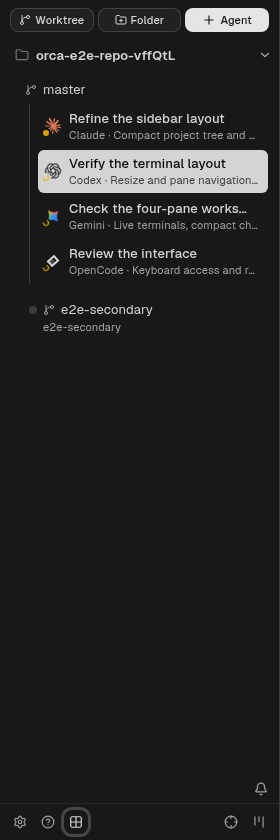
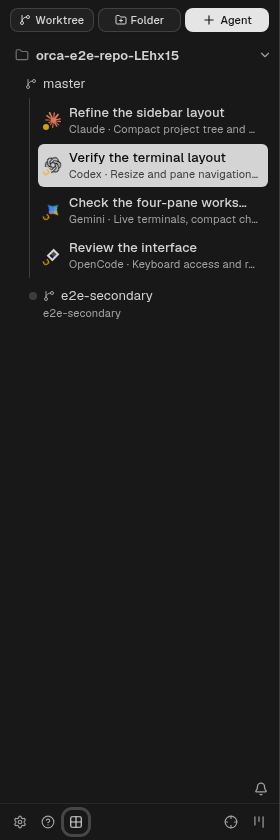
feat(ui): unify workspace canvas and inset terminal panes

Changed region(s): [[0.0857, 0.0929, 0.9714, 0.4024], [0.4857, 0.0619, 0.6286, 0.0929]]

diff --git a/tests/e2e/deck-chrome.spec.ts b/tests/e2e/deck-chrome.spec.ts
@@ -44,6 +44,22 @@ test('Deck rail navigates real split panes and keeps tools reachable', async ({
     })
   })
   await ensureTerminalVisible(page)
+  const canvas = page.locator('.deck-workspace-shell')
+  const canvasColor = await canvas.evaluate((element) => getComputedStyle(element).backgroundColor)
+  await expect(page.locator('.deck-sidebar')).toHaveCSS('background-color', canvasColor)
+  await expect(page.locator('[data-tab-group-strip-id]').first()).toHaveCSS(
+    'background-color',
+    canvasColor
+  )
+  const projectBranchSpacing = await page.locator('.deck-sidebar').evaluate((sidebar) => {
+    const header = sidebar.querySelector('[data-repo-header-id]')!.getBoundingClientRect()
+    const branch = sidebar
+      .querySelector('[data-worktree-card-hover-trigger]')!
+      .getBoundingClientRect()
+    return branch.top - header.bottom
+  })
+  expect(projectBranchSpacing).toBeGreaterThanOrEqual(0)
+  expect(projectBranchSpacing).toBeLessThanOrEqual(6)
   await page.evaluate(() => {
     const state = window.__store!.getState()
     for (const title of ['Review changes', 'Build and verify']) {
@@ -73,7 +89,11 @@ test('Deck rail navigates real split panes and keeps tools reachable', async ({
     page.locator('[data-testid="sortable-tab"]').filter({ hasText: 'Workspace · 4 panes' })
   ).toHaveCount(1)
   await expect(page.locator('.pane[data-active-pane]:visible')).toHaveCount(1)
-  await expect(page.locator('.pane-title-bar:visible').first()).toHaveCSS(
+  await expect(page.locator('.pane[data-active-pane]:visible')).toHaveCSS(
+    'background-color',
+    'rgb(12, 12, 12)'
+  )
+  await expect(page.locator('.pane-title-bar[data-active-pane]:visible')).toHaveCSS(
     'background-color',
     'rgb(12, 12, 12)'
   )
@@ -195,6 +215,27 @@ test('Deck rail navigates real split panes and keeps tools reachable', async ({
   expect(borderColors.find((pane) => pane.active)?.color).not.toBe(
     borderColors.find((pane) => !pane.active)?.color
   )
+  await expect(page.locator('.deck-terminal-surface:visible')).toHaveCSS(
+    'background-color',
+    canvasColor
+  )
+  await expect(page.locator('.pane-title-bar:visible').first()).toHaveCSS('height', '32px')
+  await expect
+    .poll(() =>
+      page.locator('.pane-title-bar:visible').evaluateAll((headers) =>
+        headers.every((header) => {
+          const pane = document.querySelector(`.deck-terminal-surface .pane[data-active-pane]`)
+          const box = header.getBoundingClientRect()
+          return (
+            !header.hasAttribute('data-active-pane') ||
+            (pane &&
+              Math.abs(box.left - pane.getBoundingClientRect().left) < 1 &&
+              Math.abs(box.top - pane.getBoundingClientRect().top) < 1)
+          )
+        })
+      )
+    )
+    .toBe(true)
 
   await expect(page.getByRole('button', { name: 'New agent', exact: true })).toBeEnabled()
   for (const button of await page.getByRole('button', { name: 'Got it', exact: true }).all()) {
@@ -225,14 +266,19 @@ test('Deck rail navigates real split panes and keeps tools reachable', async ({
         elements.every((element) => {
           const box = element.getBoundingClientRect()
           const terminal = element.querySelector('.xterm-container')?.getBoundingClientRect()
+          const screen = element.querySelector('.xterm-screen')?.getBoundingClientRect()
           return (
             box.width > 100 &&
             box.height > 100 &&
             box.right <= innerWidth + 1 &&
             box.bottom <= innerHeight + 1 &&
             terminal &&
-            terminal.top >= box.top + 23 &&
-            terminal.bottom <= box.bottom + 1
+            terminal.top >= box.top + 31 &&
+            terminal.bottom <= box.bottom + 1 &&
+            screen &&
+            screen.top >= terminal.top &&
+            screen.right <= box.right + 1 &&
+            screen.bottom <= box.bottom + 1
           )
         })
       )

diff --git a/src/renderer/src/assets/deck-chrome.css b/src/renderer/src/assets/deck-chrome.css
@@ -1,4 +1,35 @@
 /* Deck's compact rail, using Orca's theme roles and existing workspace actions. */
+.deck-workspace-shell {
+  --workspace-canvas: var(--worktree-sidebar);
+  background: var(--workspace-canvas);
+  --bg-titlebar: var(--workspace-canvas);
+  --sidebar: var(--worktree-sidebar);
+}
+
+.deck-workspace-shell .titlebar-left {
+  box-shadow: none;
+}
+
+.deck-workspace-shell [data-tab-group-strip-id],
+.deck-workspace-shell [data-terminal-focus-release-surface] {
+  background: var(--workspace-canvas);
+  border-bottom-color: transparent;
+}
+
+.deck-terminal-surface,
+.deck-terminal-surface ~ .pane-title-overlay-layer {
+  inset: 6px;
+  --orca-pane-title-height: 32px;
+}
+
+.deck-terminal-surface {
+  background: var(--workspace-canvas) !important;
+}
+
+.deck-terminal-surface .pane-divider:not(:hover):not(.is-dragging)::after {
+  background: transparent;
+}
+
 .deck-sidebar.deck-sidebar {
   border-right: 1px solid var(--border);
 }
@@ -33,8 +64,8 @@
 
 .deck-sidebar.deck-sidebar [data-worktree-card-surface] {
   border-radius: var(--radius-sm);
-  padding-top: 4px;
-  padding-bottom: 4px;
+  padding-top: 2px;
+  padding-bottom: 2px;
 }
 
 .deck-sidebar.deck-sidebar [data-worktree-card-surface]:has([data-deck-agent]) {
@@ -172,6 +203,7 @@
 
 /* Inset outlines leave the pane manager's measured terminal geometry untouched. */
 [data-terminal-tab-id] .pane {
+  background: var(--orca-pane-title-bg);
   border-radius: var(--radius-sm);
   overflow: hidden;
 }
@@ -192,10 +224,10 @@
 
 .pane-title-overlay-layer .pane-title-bar {
   font-family: var(--font-sans);
-  font-size: 11px;
+  font-size: 12px;
   color: var(--orca-pane-title-fg);
-  background: var(--orca-pane-title-bg, var(--background));
-  border: 0;
+  background: color-mix(in srgb, var(--orca-pane-title-fg) 8%, var(--orca-pane-title-bg));
+  border: 1px solid var(--border);
   border-radius: var(--radius-sm) var(--radius-sm) 0 0;
 }
 
@@ -217,9 +249,12 @@
 
 .pane-title-overlay-layer .pane-title-bar[data-chromeless] {
   pointer-events: auto;
-  background: var(--orca-pane-title-bg, var(--background));
   padding-inline: 8px;
-  border-bottom: 0;
+}
+
+.pane-title-overlay-layer .pane-title-bar[data-active-pane] {
+  background: var(--orca-pane-title-bg);
+  border-color: transparent;
 }
 
 .pane-title-overlay-layer .pane-title-bar[data-chromeless] .pane-title-split-trigger::before,

diff --git a/src/renderer/src/assets/deck-tabs.css b/src/renderer/src/assets/deck-tabs.css
@@ -6,14 +6,14 @@
   padding-inline: 8px;
   border: 0;
   border-radius: var(--radius-sm);
-  background: color-mix(in srgb, var(--foreground) 3%, var(--card));
+  background: transparent;
   transition:
     background-color 150ms ease-out,
     color 150ms ease-out;
 }
 
 .terminal-tab-strip > [data-tab-strip-slot] {
-  background: var(--card);
+  background: transparent;
 }
 
 .terminal-tab-strip > [data-tab-strip-slot]:not(:last-child) {
@@ -29,12 +29,12 @@
 }
 
 .terminal-tab-strip .workspace-tab:hover {
-  background: color-mix(in srgb, var(--foreground) 6%, var(--card));
+  background: color-mix(in srgb, var(--foreground) 6%, transparent);
 }
 
 .terminal-tab-strip .workspace-tab.workspace-tab-active {
-  background: color-mix(in srgb, var(--foreground) 10%, var(--card));
-  box-shadow: inset 0 0 0 1px color-mix(in srgb, var(--foreground) 20%, transparent);
+  background: color-mix(in srgb, var(--foreground) 6%, transparent);
+  box-shadow: none;
   font-weight: 500;
 }
 

diff --git a/src/renderer/src/assets/main.css b/src/renderer/src/assets/main.css
@@ -44,6 +44,7 @@
 
 @theme inline {
   --color-background: var(--background);
+  --color-workspace-canvas: var(--workspace-canvas);
   --color-foreground: var(--foreground);
   --color-card: var(--card);
   --color-card-foreground: var(--card-foreground);
@@ -206,6 +207,7 @@
   --chart-4: var(--color-blue-700);
   --chart-5: var(--color-blue-800);
   --worktree-sidebar: #f5f5f5;
+  --workspace-canvas: var(--worktree-sidebar);
   --worktree-sidebar-foreground: #0a0a0a;
   --worktree-sidebar-accent: #eaeaea;
   --worktree-sidebar-accent-foreground: #171717;
@@ -322,6 +324,7 @@
   --chart-5: var(--color-blue-800);
   /* Keep the rail slightly lighter than the terminal canvas. */
   --worktree-sidebar: #181818;
+  --workspace-canvas: var(--worktree-sidebar);
   --worktree-sidebar-foreground: #d4d4d4;
   --worktree-sidebar-accent: #353535;
   --worktree-sidebar-accent-foreground: #fafafa;

diff --git a/src/renderer/src/app-shell/AppWorkspaceShell.tsx b/src/renderer/src/app-shell/AppWorkspaceShell.tsx
@@ -112,7 +112,10 @@ export function AppWorkspaceShell(props: {
         'The app is still running. Retry the shell or use the menu to report the crash details.'
       )}
     >
-      <div className="flex flex-row flex-1 min-h-0 overflow-hidden">
+      <div
+        className="deck-workspace-shell flex flex-row flex-1 min-h-0 overflow-hidden"
+        style={layout.leftSidebarStyle}
+      >
         {/* Why: keep the non-workspace titlebar inside this left+center wrapper so it doesn't span over the right-sidebar column. */}
         <div className="flex flex-col flex-1 min-w-0 min-h-0">
           {/* Why: workspace view drops the full-width titlebar so tab groups extend to the top; settings/landing/tasks keep it. */}

diff --git a/src/renderer/src/components/terminal-pane/use-terminal-pane-projection.ts b/src/renderer/src/components/terminal-pane/use-terminal-pane-projection.ts
@@ -70,9 +70,10 @@ export function useTerminalPaneProjection(controller: TerminalPaneMobileControll
   const hiddenStartupStyle: CSSProperties = shouldMeasureHiddenStartup
     ? { opacity: 0, pointerEvents: 'none' }
     : {}
-  const terminalContainerStyle: CSSProperties = {
+  const terminalContainerStyle: CSSProperties & { '--orca-pane-title-bg': string } = {
     display: terminalContentVisible ? 'flex' : 'none',
     overflow: 'hidden',
+    '--orca-pane-title-bg': paneTitleBackground,
     ...hiddenStartupStyle,
     ['--orca-terminal-divider-color' as string]:
       effectiveAppearance?.dividerColor ?? DEFAULT_TERMINAL_DIVIDER_DARK,

diff --git a/src/renderer/src/components/terminal-pane/TerminalPaneSurface.tsx b/src/renderer/src/components/terminal-pane/TerminalPaneSurface.tsx
@@ -117,7 +117,7 @@ export function TerminalPaneSurface({
     <>
       <div
         ref={setContainerRef}
-        className="absolute inset-0 min-h-0 min-w-0"
+        className="deck-terminal-surface absolute inset-0 min-h-0 min-w-0"
         data-native-file-drop-target="terminal"
         data-terminal-tab-id={tabId}
         data-terminal-chat-view={effectiveChatViewMode && activePaneIsChatLeaf ? 'true' : undefined}

diff --git a/src/renderer/src/components/sidebar/worktree-list/viewport/virtual-rows.ts b/src/renderer/src/components/sidebar/worktree-list/viewport/virtual-rows.ts
@@ -6,7 +6,7 @@ import type { RenderRow } from '../listing/render-row'
 
 export const GROUP_HEADER_ROW_HEIGHT = 28
 export const HOST_HEADER_ROW_HEIGHT = 32
-export const WORKTREE_SIDEBAR_VIRTUAL_ROW_GAP = 6
+export const WORKTREE_SIDEBAR_VIRTUAL_ROW_GAP = 2
 const SECONDARY_GROUP_HEADER_TOP_MARGIN = 4
 const IMPORTED_WORKTREES_LINE_ROW_HEIGHT = 36
 const PENDING_CREATION_ROW_HEIGHT = 56

diff --git a/docs/STYLEGUIDE.md b/docs/STYLEGUIDE.md
@@ -27,21 +27,22 @@ Never hardcode a hex value in component code if a variable already covers it. If
 
 Tokens come in pairs: a **surface** and a **foreground** that meets contrast on it. Always use them together.
 
-| Role                                     | Use it for                                                  | Don't use it for                                    |
-| ---------------------------------------- | ----------------------------------------------------------- | --------------------------------------------------- |
-| `background` / `foreground`              | App canvas, default text                                    | Cards, popovers, sidebar (have their own)           |
-| `card` / `card-foreground`               | Panels lifted off the canvas                                | The canvas itself                                   |
-| `popover` / `popover-foreground`         | Floating menus, dropdowns, hovercards                       | Inline UI                                           |
-| `primary` / `primary-foreground`         | The single affirmative action in a flow (Save, Confirm)     | Decorative accents; hover states; secondary actions |
-| `secondary` / `secondary-foreground`     | Lower-emphasis actions next to a primary                    | The affirmative action                              |
-| `muted` / `muted-foreground`             | De-emphasized text, captions, placeholders, disabled chrome | Body copy; primary actions                          |
-| `accent` / `accent-foreground`           | Hover/active backgrounds for ghost buttons and list rows    | Solid filled buttons (use `secondary` instead)      |
-| `destructive` / `destructive-foreground` | Delete, discard, irreversible-action buttons; error states  | Cancel buttons (Cancel is not destructive)          |
-| `border`                                 | All hairlines: dividers, input outlines, card edges         | Heavy emphasis; that's `ring`                       |
-| `input`                                  | Form field background only                                  | Anywhere outside form fields                        |
-| `ring`                                   | Focus-visible outlines, active selection halos              | Persistent decoration                               |
-| `sidebar` (+ variants)                   | The worktree sidebar and its children                       | Other panels                                        |
-| `editor-surface`                         | Background of Monaco / markdown editor panes                | App chrome                                          |
+| Role                                     | Use it for                                                                  | Don't use it for                                    |
+| ---------------------------------------- | --------------------------------------------------------------------------- | --------------------------------------------------- |
+| `background` / `foreground`              | App canvas, default text                                                    | Cards, popovers, sidebar (have their own)           |
+| `workspace-canvas` / `foreground`        | Workspace chrome and gaps around terminal cards; follows sidebar appearance | Terminal content, popovers, lifted panels           |
+| `card` / `card-foreground`               | Panels lifted off the canvas                                                | The canvas itself                                   |
+| `popover` / `popover-foreground`         | Floating menus, dropdowns, hovercards                                       | Inline UI                                           |
+| `primary` / `primary-foreground`         | The single affirmative action in a flow (Save, Confirm)                     | Decorative accents; hover states; secondary actions |
+| `secondary` / `secondary-foreground`     | Lower-emphasis actions next to a primary                                    | The affirmative action                              |
+| `muted` / `muted-foreground`             | De-emphasized text, captions, placeholders, disabled chrome                 | Body copy; primary actions                          |
+| `accent` / `accent-foreground`           | Hover/active backgrounds for ghost buttons and list rows                    | Solid filled buttons (use `secondary` instead)      |
+| `destructive` / `destructive-foreground` | Delete, discard, irreversible-action buttons; error states                  | Cancel buttons (Cancel is not destructive)          |
+| `border`                                 | All hairlines: dividers, input outlines, card edges                         | Heavy emphasis; that's `ring`                       |
+| `input`                                  | Form field background only                                                  | Anywhere outside form fields                        |
+| `ring`                                   | Focus-visible outlines, active selection halos                              | Persistent decoration                               |
+| `sidebar` (+ variants)                   | The worktree sidebar and its children                                       | Other panels                                        |
+| `editor-surface`                         | Background of Monaco / markdown editor panes                                | App chrome                                          |
 
 The `sidebar` family expands into `--sidebar`, `--sidebar-foreground`, `--sidebar-primary`, `--sidebar-primary-foreground`, `--sidebar-accent`, `--sidebar-accent-foreground`, `--sidebar-border`, and `--sidebar-ring` — use them inside the worktree sidebar so its hover/selected/focus states stay consistent and don't bleed into other panels. `editor-surface` is its own token (not just `background`) because Monaco and the markdown editor have a slightly darker surface in dark mode to match VS Code conventions; reach for it whenever you're rendering an editor pane.
 

diff --git a/DECK-UI.md b/DECK-UI.md
@@ -8,21 +8,21 @@ Mở **Orca Deck** trong menu ứng dụng, hoặc chạy:
 
 Mã nguồn: `/home/towfienes/Projects/orca-deck`, nhánh `deck-ui`.
 Cấu hình riêng: `/home/towfienes/.config/orca-deck`.
-UI Deck đã được tích hợp và cài vào **Orca chính 1.4.220**. Menu Orca mở `~/Applications/Orca-1.4.220-Deck-Sidebar/AppRun`, dùng profile Orca hiện có. Thoát rồi mở lại Orca để nạp renderer mới.
+UI Deck đã được tích hợp và cài vào **Orca chính 1.4.220**. Menu Orca mở `~/Applications/Orca-1.4.220-Deck-Seamless/AppRun`, dùng profile Orca hiện có. Thoát rồi mở lại Orca để nạp renderer mới.
 
 ## Giao diện
 
-- Sidebar 280 px, nhóm theo project, nhánh và agent; mỗi agent hai dòng với biểu tượng và trạng thái.
+- Sidebar nhóm theo project, nhánh và agent; khoảng hở giữa các hàng 2 px và đệm workspace 2 px để project/nhánh sát nhau. Mỗi agent hai dòng với biểu tượng và trạng thái.
 - Worktree / Folder / Agent ở trên; Search, Tasks và Automations trong nút Tools and search bên dưới.
 - **+ Agent** chia ô terminal vừa rê chuột qua trong workspace hiện tại. Nếu chưa rê qua ô nào, dùng ô đang chọn; ô rộng chia trái/phải, ô cao chia trên/dưới. Thêm agent tiếp tục chia ô đích, không tạo thêm tab. Khi không có terminal hiện trên màn hình, giữ luồng tạo tab agent mới.
 - Tab có nhiều pane hiển thị “Workspace · N panes”, giữ nguyên tên tự đặt. Breadcrumb project/nhánh nằm cùng hàng tab và tự ẩn khi thanh tab hẹp.
-- Pane đang chọn có viền sáng; tiêu đề dùng cùng nền terminal.
+- Sidebar, thanh tab và vùng giữa các pane dùng một nền liền mạch. Pane cách mép 6 px, bo nhẹ, có viền mảnh; pane đang chọn có viền sáng hơn. Header pane cao 32 px, nền header của pane đang chọn khớp terminal.
 - Hàng agent đang chọn nền sáng ngay cả trước khi có trạng thái; hỗ trợ Enter/Space để chuyển pane.
 - Nền đen than, viền mảnh và tiêu đề nhỏ có biểu tượng cho từng terminal.
 - Workspace TDTU đã được mở với bốn terminal theo bố cục 2×2, lưu qua lần khởi động tiếp theo.
 - Gợi ý setup script nằm trong menu công cụ; các thao tác workspace và terminal dùng lại cơ chế Orca.
 
-Thanh tab được tinh chỉnh theo video Deck: tab thấp, bo nhẹ, nền thường/hover/active phân cấp rõ, viền chọn mảnh và nút đóng có vùng bấm rộng hơn. Khi nhiều tab, tên giữ chiều rộng tối thiểu và tab đang chọn vẫn hiện ở mép khi cuộn. Hàng tóm tắt terminal cùng màu nền terminal và giới hạn chiều dài.
+Thanh tab được tinh chỉnh theo video Deck: tab thấp, bo nhẹ, nền thường/hover/active phân cấp rõ, dấu chọn gọn và nút đóng có vùng bấm rộng hơn. Khi nhiều tab, tên giữ chiều rộng tối thiểu và tab đang chọn vẫn hiện ở mép khi cuộn. Hàng tóm tắt terminal cùng màu nền terminal và giới hạn chiều dài.
 
 Định hướng hình ảnh và đối chiếu mã nguồn được lưu ở [SpaceVibe Deck UI reference](docs/readme/spacevibe-deck-ui.md). Đây là bản thích nghi theo kiến trúc Orca, chưa trùng từng pixel. Nội dung CLI do từng agent và cấu hình shell hiển thị. Các agent trong ảnh kiểm thử là dữ liệu minh họa; bản sử dụng mở terminal thật và không tự chạy tác vụ AI.
 

diff --git a/docs/readme/orca-1.4.220-integration.md b/docs/readme/orca-1.4.220-integration.md
@@ -1,7 +1,7 @@
 # Orca 1.4.220 — Deck UI installed and verified
 
 Orca on this machine now opens the full Deck renderer from
-`~/Applications/Orca-1.4.220-Deck-Sidebar/AppRun`. Quit Orca and reopen it from
+`~/Applications/Orca-1.4.220-Deck-Seamless/AppRun`. Quit Orca and reopen it from
 the application menu to load the new renderer. The previous running instance
 was left running; the installer does not close active terminals.
 
@@ -33,14 +33,14 @@ The editor tab close button stays reachable by keyboard while the file is dirty.
   hidden windows, Deck controls, appearance import and restart persistence.
 - All 3,839 original files outside the renderer retain their bytes, executable
   flags and unpacking flags. All 1,146 renderer files match the production build.
-- Installed archive hash matches `dist/orca-deck-sidebar/verification.json`.
+- Installed archive hash matches `dist/orca-deck-seamless/verification.json`.
 
 Tests run with `ORCA_BACKGROUND_LAUNCH=1` and CDP. No native-focus tests,
 full repository suite, macOS/Windows execution or live SSH session were run.
 
 ## Package and rollback
 
-The verified package and one-off installer are in `dist/orca-deck-sidebar/`.
+The verified package and one-off installer are in `dist/orca-deck-seamless/`.
 The installer has already run. The original AppImage and previous Deck runtime
 remain available. No automatic updater was added; an official update or
 reinstallation can replace the local customization.
@@ -48,7 +48,7 @@ reinstallation can replace the local customization.
 To restore the previous Orca launcher, run:
 
 ```sh
-cp -- "$HOME/Applications/Orca-1.4.220-Deck-Sidebar/original-orca.desktop" \
+cp -- "$HOME/Applications/Orca-1.4.220-Deck-Seamless/original-orca.desktop" \
   "$HOME/.local/share/applications/appimagekit_ae11192f5fe223a1e05f0008606929e5-Orca.desktop"
 ```
 
@@ -77,3 +77,24 @@ checks covering the sidebar, agent tiling and both workspace kinds, and a
 packaged-app launch/cancel/open/restart check with isolated home and profile.
 
 ![Compact agent rows and overlapping status badges](../assets/orca-deck-sidebar.png)
+
+## Seamless workspace refinement
+
+Workspace chrome and terminal gutters share the sidebar appearance through the
+canonical `workspace-canvas` token. Each terminal sits 6 px inside the workspace
+with a rounded hairline border. Idle divider lines recede; hover and drag still
+show the resize handle. A 32 px header reserves matching terminal space, and
+the active pane keeps the terminal surface while other headers lift subtly.
+Tabs use a quiet background without the boxed selection outline.
+
+Project and branch rows now have a 2 px virtual-row gap and 2 px workspace
+padding. The virtualizer and drag placement consume the same gap constant.
+Appearance preferences and agent/session routing are unchanged.
+
+Validation covers 40 sidebar layout tests, renderer typecheck and changed-code
+quality, hidden Electron screenshots across themes and viewport widths, tab
+overflow/drag/keyboard controls, agent tiling, folder/worktree launch choices,
+and packaged-app restart with an isolated profile. Terminal screen bounds and
+header alignment are checked after resizing.
+
+![Seamless workspace with inset terminal cards](../assets/orca-deck-workspace.png)
